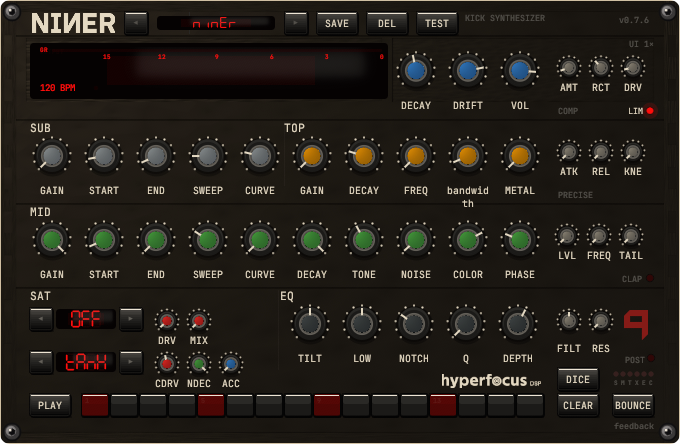
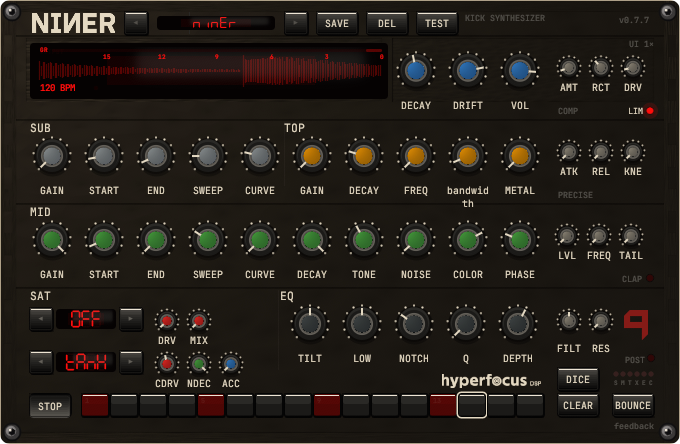
docs: refresh screenshot for v0.7.7 + cache-bust README image URL
User-supplied capture replaces the prior re-shoot. Adds ?v=0.7.7
to the README image reference so GitHub's camo proxy fetches the
updated bytes instead of serving the cached pre-v0.7.7 version.

diff --git a/README.md b/README.md
@@ -12,7 +12,7 @@ full master bus (RMS compressor → transformer drive → brickwall limiter
 + user preset browser, one-shot WAV/AIFF bounce, and a fully
 interactive standalone editor.
 
-![Niner](docs/niner.webp)
+![Niner](docs/niner.webp?v=0.7.7)
 
 <p align="center">
   <a href="https://hyperfocusdsp.com/plugins/niner/"><img src="https://img.shields.io/badge/Plugin_page-hyperfocusdsp.com-f59e0b?style=for-the-badge" alt="Niner on hyperfocusdsp.com" /></a>